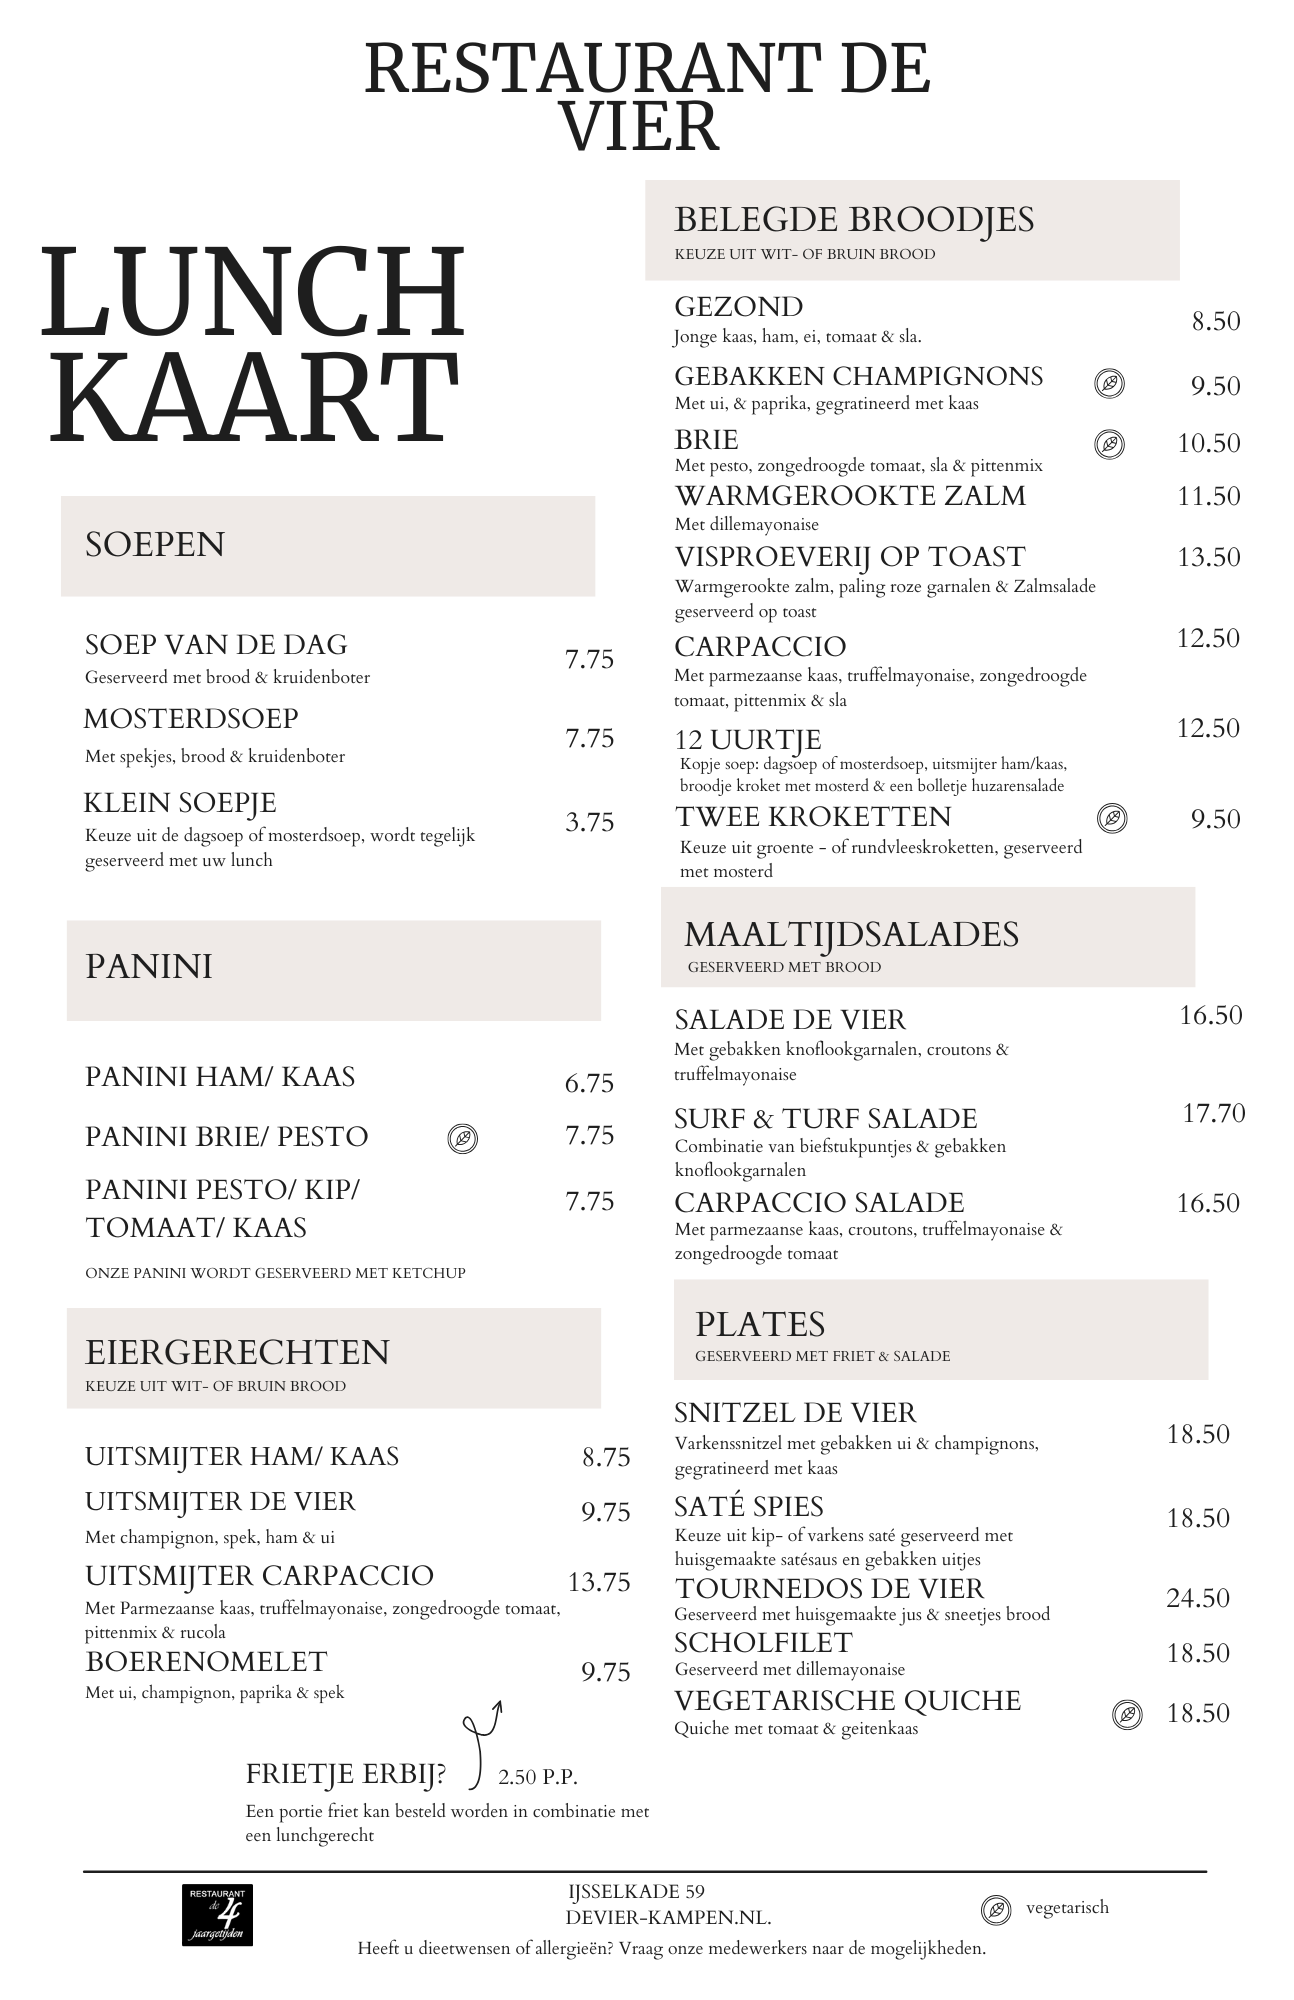
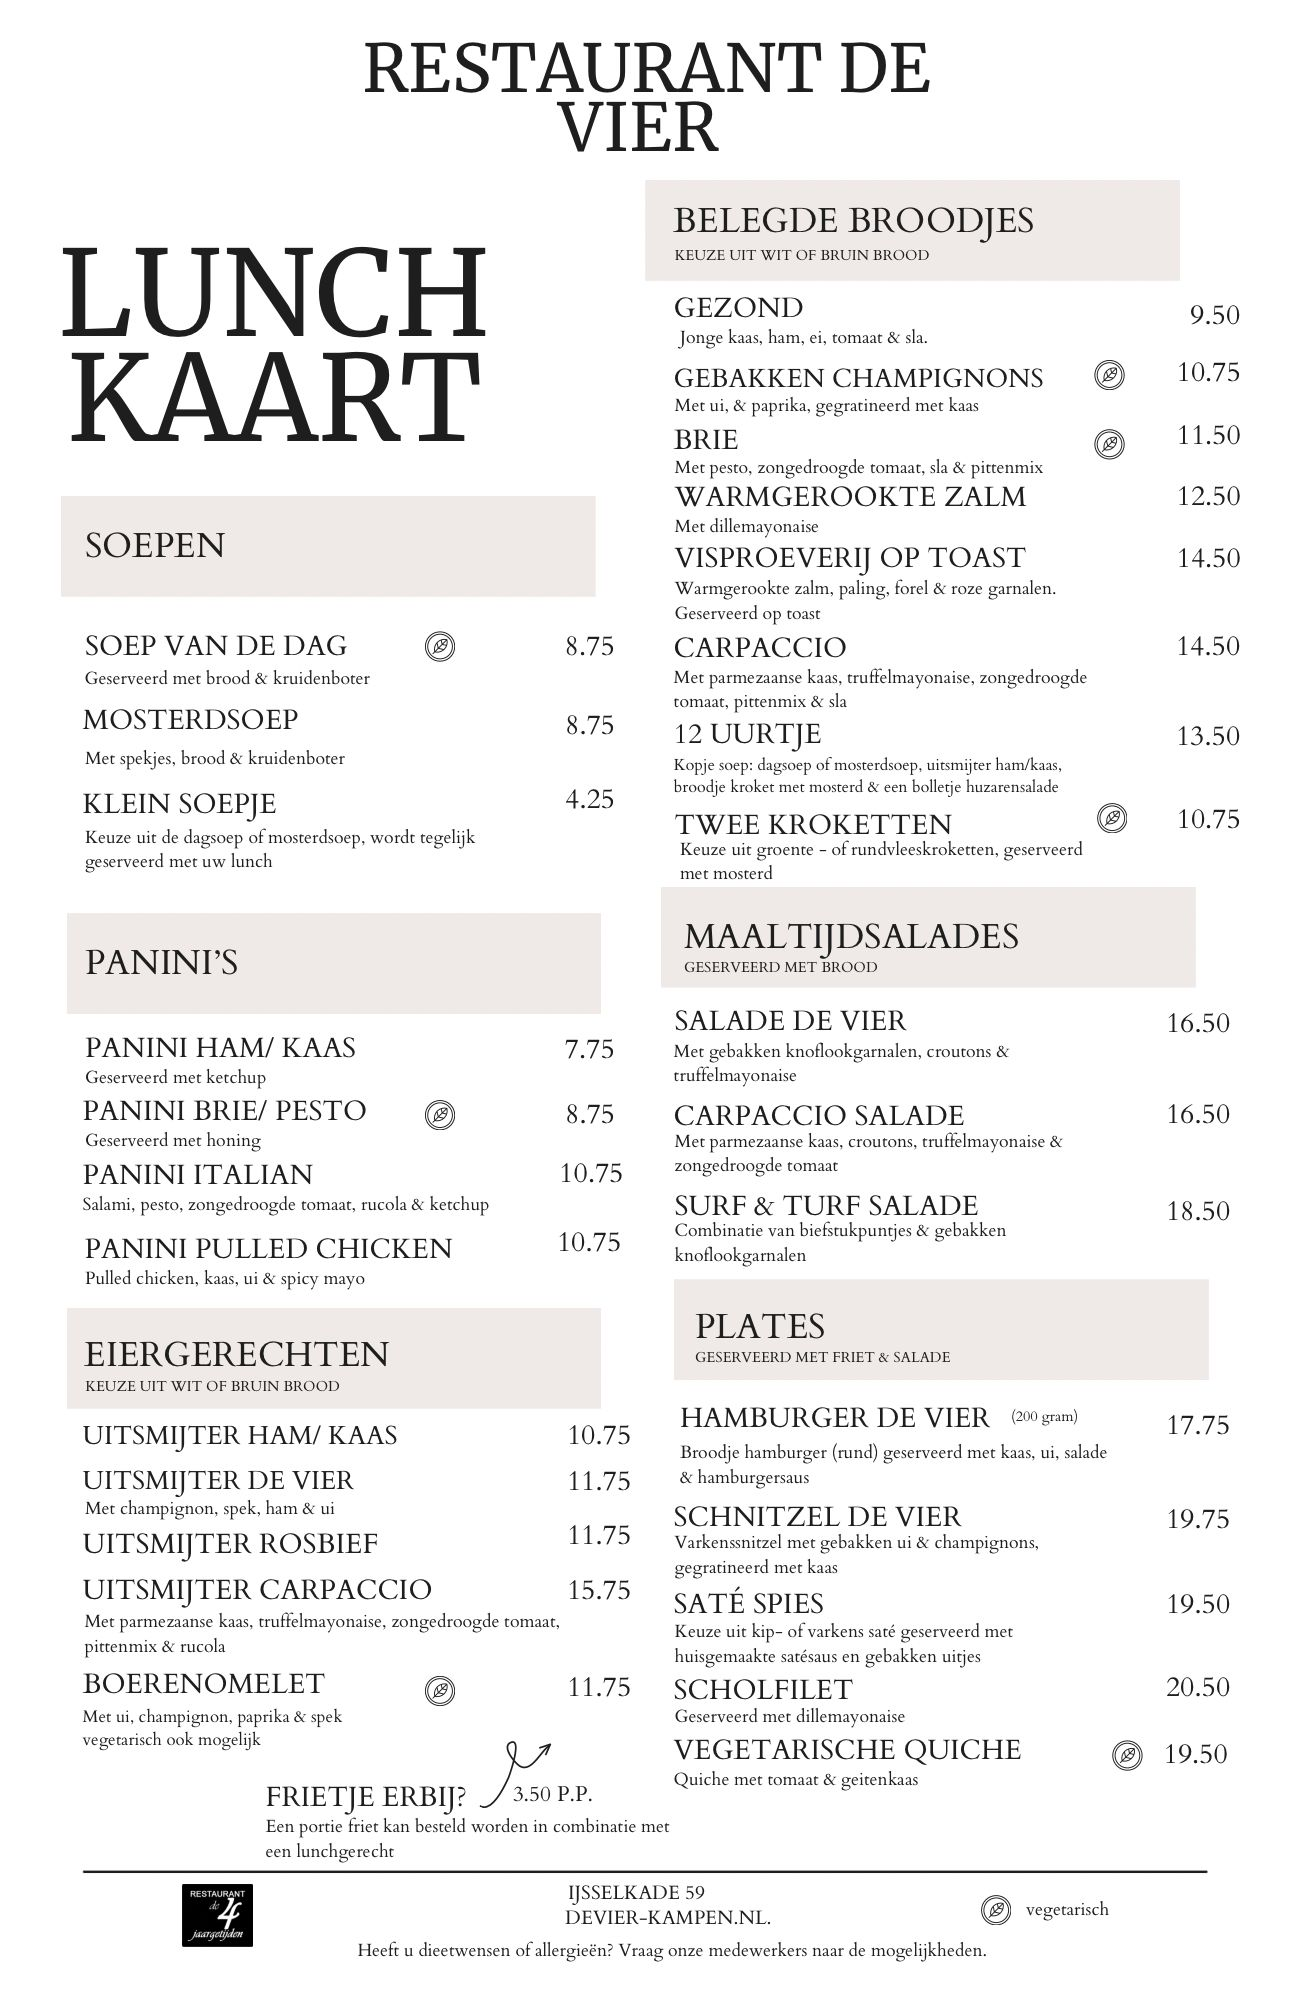
Add Bun backend for Google Calendar API integration
Introduces a Bun HTTP server (server/server.js) that proxies Google Calendar API calls server-side, keeping the API key out of the frontend bundle. Calendar.jsx now fetches live events dynamically with loading/error/empty states. Removes hardcoded events.js. Updates assets and adds .env.example for local setup.

diff --git a/server/server.js b/server/server.js
@@ -1,0 +1,119 @@
+const PORT = process.env.BACKEND_PORT || 3001;
+const API_KEY = process.env.GOOGLE_CALENDAR_API_KEY;
+const CALENDAR_ID = process.env.GOOGLE_CALENDAR_ID;
+const CACHE_TTL = 10 * 60 * 1000; // 10 minutes
+
+let cache = { data: null, fetchedAt: 0 };
+
+function stripHtml(html) {
+    return (html || "")
+        .replace(/<br\s*\/?>/gi, "\n")
+        .replace(/<[^>]+>/g, "")
+        .replace(/&amp;/g, "&")
+        .replace(/&lt;/g, "<")
+        .replace(/&gt;/g, ">")
+        .replace(/&quot;/g, '"')
+        .replace(/&#39;/g, "'")
+        .replace(/&nbsp;/g, " ")
+        .trim();
+}
+
+function formatDutchDate(dateStr) {
+    if (!dateStr) return "";
+    const d = new Date(dateStr);
+    return d.toLocaleDateString("nl-NL", { day: "numeric", month: "long", year: "numeric" });
+}
+
+function transformEvent(item) {
+    const hasTime = !!item.start?.dateTime;
+    const startRaw = item.start?.dateTime || item.start?.date || "";
+
+    const date = formatDutchDate(startRaw);
+    const startingTime = hasTime
+        ? new Date(item.start.dateTime).toLocaleTimeString("nl-NL", { hour: "2-digit", minute: "2-digit" })
+        : "Hele dag";
+
+    let description = stripHtml(item.description);
+    let poster = null;
+
+    // Extract poster: if the last non-empty line is a standalone https URL, use it as poster
+    const lines = description.split("\n").map(l => l.trim());
+    const lastLine = lines.findLast(l => l.length > 0) ?? "";
+    if (/^https:\/\/\S+$/i.test(lastLine)) {
+        poster = lastLine;
+        const lastIndex = lines.lastIndexOf(lastLine);
+        description = lines.slice(0, lastIndex).join("\n").trim();
+    }
+
+    return {
+        id: item.id,
+        title: item.summary || "",
+        date,
+        startingTime,
+        description,
+        poster,
+    };
+}
+
+async function fetchFromGoogleCalendar() {
+    if (!API_KEY || !CALENDAR_ID) {
+        throw new Error("Missing GOOGLE_CALENDAR_API_KEY or GOOGLE_CALENDAR_ID in environment");
+    }
+
+    const timeMin = encodeURIComponent(new Date().toISOString());
+    const calId = encodeURIComponent(CALENDAR_ID);
+    const url = `https://www.googleapis.com/calendar/v3/calendars/${calId}/events?key=${API_KEY}&timeMin=${timeMin}&singleEvents=true&orderBy=startTime&maxResults=50`;
+
+    const res = await fetch(url);
+    if (!res.ok) {
+        const body = await res.text();
+        throw new Error(`Google Calendar API responded ${res.status}: ${body}`);
+    }
+
+    const json = await res.json();
+    return (json.items || []).map(transformEvent);
+}
+
+async function getEvents() {
+    const now = Date.now();
+    if (cache.data && now - cache.fetchedAt < CACHE_TTL) {
+        return cache.data;
+    }
+    const data = await fetchFromGoogleCalendar();
+    cache = { data, fetchedAt: now };
+    return data;
+}
+
+Bun.serve({
+    port: PORT,
+    async fetch(req) {
+        const url = new URL(req.url);
+        const origin = req.headers.get("origin") ?? "";
+
+        const baseHeaders = { "Content-Type": "application/json" };
+        // Allow CORS for local development only
+        if (origin.includes("localhost") || origin.includes("127.0.0.1")) {
+            baseHeaders["Access-Control-Allow-Origin"] = origin;
+            baseHeaders["Access-Control-Allow-Methods"] = "GET, OPTIONS";
+            baseHeaders["Access-Control-Allow-Headers"] = "Content-Type";
+        }
+
+        if (req.method === "OPTIONS") {
+            return new Response(null, { status: 204, headers: baseHeaders });
+        }
+
+        if (req.method === "GET" && url.pathname === "/api/events") {
+            try {
+                const events = await getEvents();
+                return Response.json(events, { headers: baseHeaders });
+            } catch (err) {
+                console.error("Failed to fetch calendar events:", err.message);
+                return Response.json({ error: "Could not fetch events" }, { status: 502, headers: baseHeaders });
+            }
+        }
+
+        return new Response("Not found", { status: 404 });
+    },
+});
+
+console.log(`Backend running on http://localhost:${PORT}`);

diff --git a/src/pages/Calendar.jsx b/src/pages/Calendar.jsx
@@ -1,33 +1,50 @@
+import { useState, useEffect } from "react";
 import "../styles/Calendar.css";
-import { events } from "../utils/events";
+
+const API_BASE = window.location.hostname === "localhost" ? "http://localhost:3001" : "";
 
 export default function Calendar() {
-    const eventElements = events.map(event => {
-        return (
-            <div key={event.id} className="event">
-                <h2>{event.title}</h2>
-                <p className="event-description">{event.description}</p>
-                <div className="event-details"> 
-                    <h3>Datum</h3>
-                    <p>{event.date}</p>
-                    <h3>Aanvang</h3>
-                    <p>{event.startingTime}</p>
-                </div>
-                {
-                    event.poster ?
-                    <img src={event.poster} alt={`Poster van ${event.title}`} /> :
-                    null
-                }
-            </div>
-        );
-    });
-    
+    const [events, setEvents] = useState([]);
+    const [loading, setLoading] = useState(true);
+    const [error, setError] = useState(null);
+
+    useEffect(() => {
+        fetch(`${API_BASE}/api/events`)
+            .then(res => {
+                if (!res.ok) throw new Error("Kon agenda niet laden");
+                return res.json();
+            })
+            .then(data => {
+                setEvents(data);
+                setLoading(false);
+            })
+            .catch(() => {
+                setError(true);
+                setLoading(false);
+            });
+    }, []);
+
     return (
         <main>
             <div className="container">
                 <h1 className="font-size-32 event-header">Evenementen agenda</h1>
+                {loading && <p>Laden...</p>}
+                {error && <p>De agenda kon niet geladen worden. Probeer het later opnieuw.</p>}
+                {!loading && !error && events.length === 0 && <p>Op dit moment zijn er geen geplande evenementen.</p>}
                 <div className="events-container">
-                    {eventElements}
+                    {events.map(event => (
+                        <div key={event.id} className="event">
+                            <h2>{event.title}</h2>
+                            <p className="event-description">{event.description}</p>
+                            <div className="event-details">
+                                <h3>Datum</h3>
+                                <p>{event.date}</p>
+                                <h3>Aanvang</h3>
+                                <p>{event.startingTime}</p>
+                            </div>
+                            {event.poster && <img src={event.poster} alt={`Poster van ${event.title}`} />}
+                        </div>
+                    ))}
                 </div>
             </div>
         </main>

diff --git a/index.html b/index.html
@@ -22,7 +22,7 @@
          _gstpln.accessKey = "6143345778a8776465cf64624993c7039ea9fcd9";
         _gstpln.color = "#954130";
         _gstpln.open = false;
-        _gstpln.showFab = false;
+        _gstpln.showFab = true;
      </script> 
   </body>
 </html>
